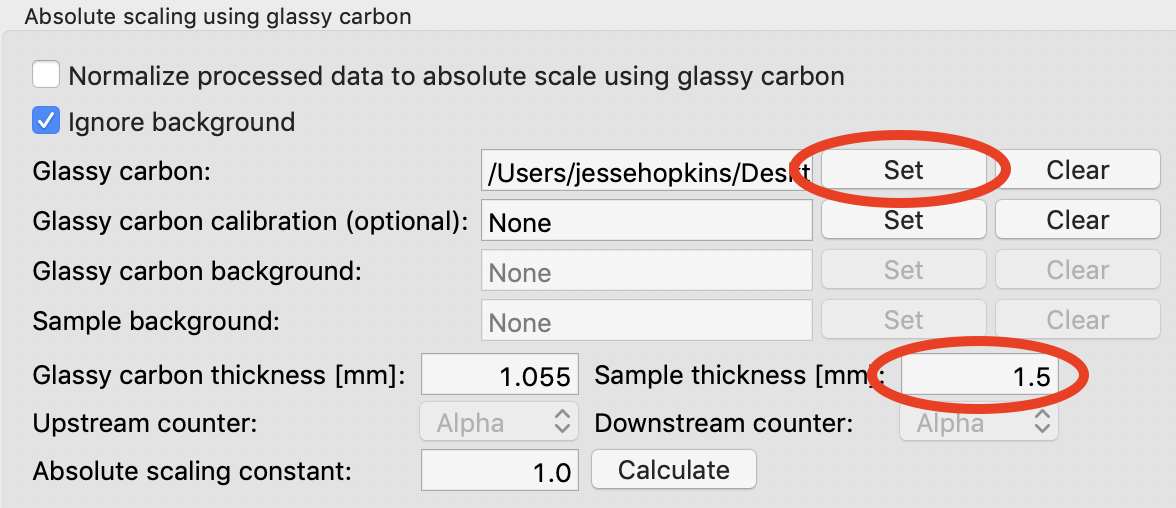
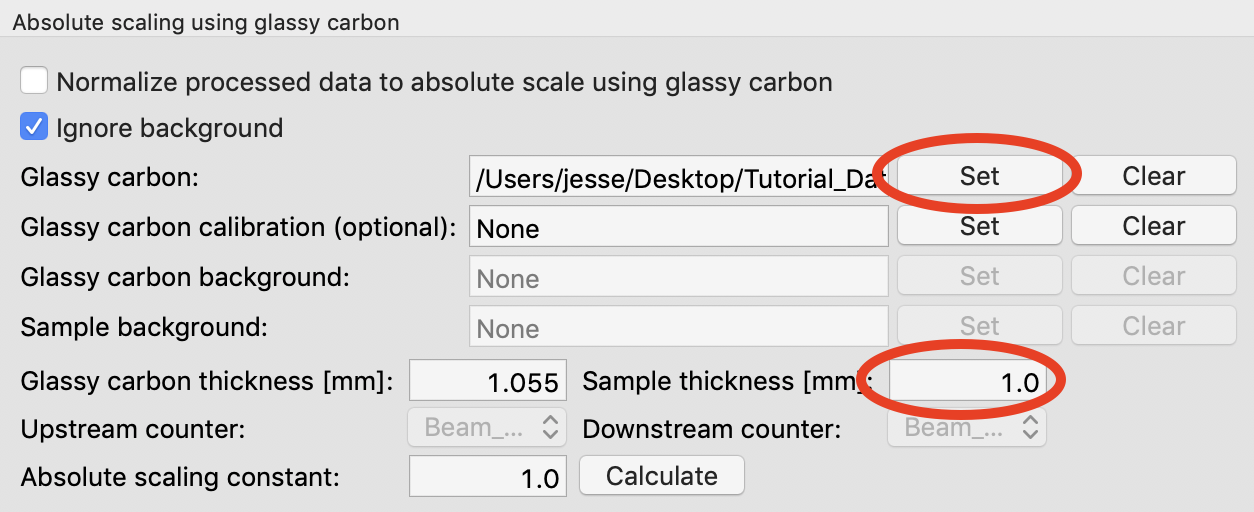
Updated glassy carbon absolute scale tutorial.

diff --git a/docs/source/tutorial/s3_abscarbon.rst b/docs/source/tutorial/s3_abscarbon.rst
@@ -3,8 +3,8 @@ Setting absolute scale with glassy carbon
 .. _s3p6:
 
 This section teaches you how to set up absolute scale using glassy carbon (NIST SRM 3600)
-as a reference. It assumes you have completed :ref:`Parts 1 <s3p1>` (or :ref:`2 <s3p2>`\ ),
-:ref:`3 <s3p3>` and :ref:`4 <s3p4>`\ . Note that you can use water (:ref:`Part 5 <s3p5>`) or
+as a reference. It assumes you have completed :ref:`Parts 1 <s3p1>`,
+:ref:`2 <s3p3>` and :ref:`3 <s3p4>`\ . Note that you can use water (:ref:`Part 4 <s3p5>`) or
 glassy carbon for absolute scale calibration in RAW.
 
 There are two ways to use glassy carbon as a standard in RAW. One way follows the NIST
@@ -16,11 +16,14 @@ it essentially ignores the background (assumes it to be small). This approach on
 regular normalization and a single measurement of the background for the glassy carbon sample.
 
 
-**The simple approach, “ignoring” background:**
+Simple (ignoring background)
+*********************************************
 
-#.  Load/use the settings from part 4 (without absolute scale set from water, part 5).
+#.  Load/use the settings from part 3 (without absolute scale set from water, part 4). If you
+    haven't done those parts, the settings are saved available as **settings.cfg**
+    in the **calibration_data** folder.
 
-#.  Plot all of the **glassy_carbon_41_001_000x.tiff** files, where x is 0-9, on the main plot.
+#.  Plot both of the **glassy_carbon2_011_000x.tif.tif** files, where x is 1-2, on the main plot.
 
     *   *Tip:* :ref:`Section 1 Part 1 <s1p1>` of this tutorial document teaches you how to do this.
 
@@ -31,21 +34,21 @@ regular normalization and a single measurement of the background for the glassy 
 
 #.  Click on the Absolute Scale section in the options list on the left.
 
-    |config_abswater1_png|
+    |config_absgc1_png|
 
-#.  Click on the Glassy carbon “Set” button and select the **A_glassy_carbon_41_001_0000.dat** file.
+#.  Click on the Glassy carbon “Set” button and select the **A_glassy_carbon2_011__0001.dat**
+    file you just saved.
 
-#.  Set the Sample thickness to 1.5 mm.
+#.  Set the Sample thickness to 1.0 mm.
 
     |config_absgc2_png|
 
-#.  Click “Calculate” button. You should get something near 0.0014.
+#.  Click “Calculate” button. You should get about 324.
 
     *   *Note:* It is important that you not change your normalization settings once
         you have set the absolute scaling constant. If you do, you will have to recalculate
         the absolute scaling constant. Also, make sure absolute scale is turned off before
-        you calculate the scale constant, otherwise you will get a bad scaling constant
-        (see the manual for details).
+        you calculate the scale constant, otherwise you will get a bad scaling constant.
 
 #.  Check the “Normalize processed data to absolute scale using glassy carbon” checkbox.
 
@@ -55,14 +58,20 @@ regular normalization and a single measurement of the background for the glassy 
 
 #.  Save the settings for future use.
 
-**The full, NIST recommended approach:**
 
-*Important note:* All of the normalization (including flux, transmission, etc) happens
+Full (NIST recommended)
+******************************************
+
+**Important note:** All of the normalization (including flux, transmission, etc) happens
 through the absolute scale panel. You shouldn’t have anything set in the Normalization
 panel (unless you are doing something like subtracting off a constant pedestal from the
 image).
 
-#.  Load/use the settings from part 4 (without absolute scale set from water, part 5).
+*Note:* The calibration dataset used for the previous ('Simple') approach
+doesn't have the requisite data to use for the full approach. So we will use
+the data in the **calibration_data/extra** folder.
+
+#.  Load the **SAXS.cfg** file in the **calibration_data/extra** folder.
 
 #.  Open the Options window by selecting “Advanced Options” in the Options menu.
 
@@ -71,15 +80,10 @@ image).
 #.  Remove any/all items in the Normalization List by highlighting them in the list
     and clicking the “Delete” button.
 
-    |100002010000031F0000025307BE652194AFBF84_png|
+    |config_absgc_full1_png|
 
-#.  Turn off any absolute scaling already in place.
-
-#.  Click on the Calibration section in the options list on the left.
-
-#.  Change the “Start plots at q-point number” to 0.
-
-    |1000020100000319000000E3F41DC6D4D282F31B_png|
+#.  Go to the Absolute Scale options section and turn off any absolute scaling
+    already in place.
 
 #.  Click “OK” to exit the advanced options window and save the changes.
 
@@ -88,26 +92,28 @@ image).
     *   *Tip:* :ref:`Section 1 Part 1 <s1p1>` of this tutorial document teaches you how
         to do this.
 
-#.  Save the **glassy_carbon** profile in the **calibration_data** folder.
+#.  Save the **glassy_carbon** profile in the **calibration_dat/extra** folder.
 
-#.  Plot, average, and save the **vac_37_001_000x.tiff** and ** MT2_48_001_000x.tiff **
-    files, where x is 0-9.
-
-    *   *Tip:* Because you aren’t normalizing by beam intensity, these averages may have
-        profiles that are not similar (see :ref:`Section 1 Part 6 <s1p6>`). In that case,
-        average just the similar profiles.
+#.  Plot and save the **vac_37_001_0000.tiff** and ** MT2_48_001_0000.tiff **
+    profiles.
 
 #.  Open the Options window and select the Absolute Scale section.
 
 #.  Uncheck the Ignore background checkbox.
 
-    |100002010000031E000002572EF4280A9EB5D279_png|
+    |config_absgc_full2_png|
 
 #.  Click the Glassy carbon “Set” button and select the **glassy_carbon_41_001_0000.dat** file.
 
-#.  Click the Glassy carbon background “Set” button and select the **A_vac_37_001_0000.dat** file.
+#.  Click the Glassy carbon background “Set” button and select the **vac_37_001_0000.dat** file.
 
-#.  Click the Sample background “Set” button and select the **A_MT2_48_001_0000.tiff** file.
+    *   *Tip:* This is the instrument background from when the glassy carbon
+        images were taken.
+
+#.  Click the Sample background “Set” button and select the **MT2_48_001_0000.tiff** file.
+
+    *   *Tip:* This is the instrument background from when sample images
+        were taken, including the empty sample cell.
 
 #.  Set the Sample thickness to 1.5 mm.
 
@@ -129,13 +135,9 @@ image).
         calculate the scale constant, otherwise you will get a bad scaling constant (see the
         manual for details).
 
-    |100002010000031F00000254EC8C0C5D987D9510_png|
+    |config_absgc_full3_png|
 
 #.  Check the “Normalize processed data to absolute scale using glassy carbon” checkbox.
-
-#.  Click on the Calibration section in the options list on the left.
-
-#.  Change the “Start plots at q-point number” to 13.
 
 #.  Click “OK” to exit the advanced options panel, saving the changes.
 
@@ -144,23 +146,28 @@ image).
 
 **Comparison note:**
 
-We find that for the example data given here, the two methods of glassy carbon calibration
-agree within ~1.5%. The best approach depends on how strong your background scattering is
-relative to the rest of the scattering in the system.
+We find that for the example data in the calibratin_data/extras folder, the
+two methods of glassy carbon calibration agree within ~1.5%. The best approach
+depends on how strong your background scattering is relative to the rest of
+the scattering in the system.
 
 
 
-.. |config_abswater1_png| image:: images/config_abswater1.png
+.. |config_absgc1_png| image:: images/config_absgc1.png
+    :target: ../_images/config_absgc1.png
 
 .. |config_absgc2_png| image:: images/config_absgc2.png
     :width: 500 px
+    :target: ../_images/config_absgc2.png
 
 .. |config_absgc3_png| image:: images/config_absgc3.png
+    :target: ../_images/config_absgc3.png
 
-.. |100002010000031F0000025307BE652194AFBF84_png| image:: images/100002010000031F0000025307BE652194AFBF84.png
+.. |config_absgc_full1_png| image:: images/config_absgc_full1.png
+    :target: ../_images/config_absgc_full1.png
 
-.. |1000020100000319000000E3F41DC6D4D282F31B_png| image:: images/1000020100000319000000E3F41DC6D4D282F31B.png
+.. |config_absgc_full2_png| image:: images/config_absgc_full2.png
+    :target: ../_images/config_absgc_full2.png
 
-.. |100002010000031E000002572EF4280A9EB5D279_png| image:: images/100002010000031E000002572EF4280A9EB5D279.png
-
-.. |100002010000031F00000254EC8C0C5D987D9510_png| image:: images/100002010000031F00000254EC8C0C5D987D9510.png
+.. |config_absgc_full3_png| image:: images/config_absgc_full3.png
+    :target: ../_images/config_absgc_full3.png

diff --git a/docs/source/tutorial/s3_normalization.rst b/docs/source/tutorial/s3_normalization.rst
@@ -12,7 +12,7 @@ other options. It assumes you have completed :ref:`Parts 1 <s3p1>` and :ref:`2 <
 
     |config_norm_load_image_png|
 
-#.  In the window that pops up, select the **agbe_008_0001.tiff** file. Click
+#.  In the window that pops up, select the **agbe_008_0001.tif** file. Click
     the Open button.
 
     *   *Note:* You can select any image of the appropriate type, not just the behenate.
@@ -48,7 +48,7 @@ other options. It assumes you have completed :ref:`Parts 1 <s3p1>` and :ref:`2 <
 
 #.  Click OK to exit the options window.
 
-#.  In the file list, select the **agbe_008_0001.tiff** file and click the Plot
+#.  In the file list, select the **agbe_008_0001.tif** file and click the Plot
     button. You will see a curve get plotted in the top panel of the Profiles plot.
 
 #.  Click on the Profiles tab. You will see a profile loaded in the Profiles list.

diff --git a/docs/source/tutorial/s3_masking.rst b/docs/source/tutorial/s3_masking.rst
@@ -6,7 +6,7 @@ This section teaches you how to mask out unwanted portions of your image, such a
 beamstop and bad detector pixels. It assumes you have just done :ref:`Part 1 <s3p1>`.
 If not, open RAW as in Step 1 and set your data folder as in Step 8 of :ref:`Part 1 <s3p1>`.
 
-#.  In the Files tab, select the **water1_014_0001.tiff** file and click the show image button.
+#.  In the Files tab, select the **water1_014_0001.tif** file and click the show image button.
 
     *   *Tip:* It's usually best to make a mask on a water or buffer image. If you do it
         on instrument background, which can be quite low, it can be hard to tell

diff --git a/docs/source/tutorial/s3_autocenter.rst b/docs/source/tutorial/s3_autocenter.rst
@@ -37,7 +37,7 @@ method in RAW.
 
 #.  We will use silver behenate to calibrate the sample to detector distance,
     the beam center on the detector, and the detector rotation. Show the silver
-    behenate image by selecting the **agbe_008_0001.tiff** file and clicking
+    behenate image by selecting the **agbe_008_0001.tif** file and clicking
     the show image button at the bottom of the File Control panel.
 
     |calibration_image_png|
